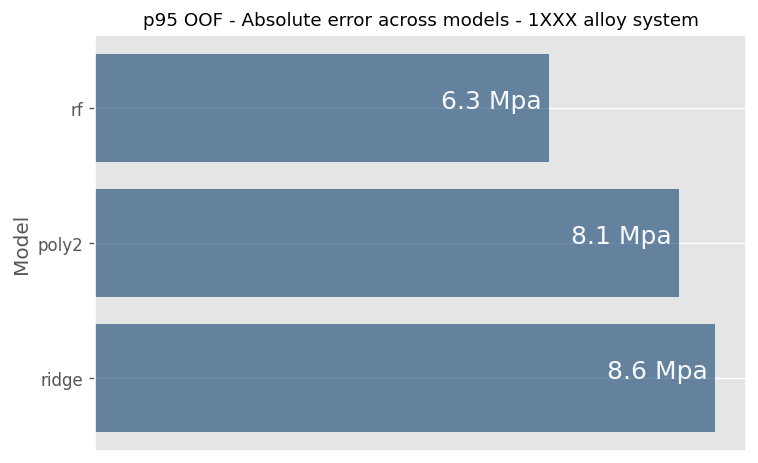
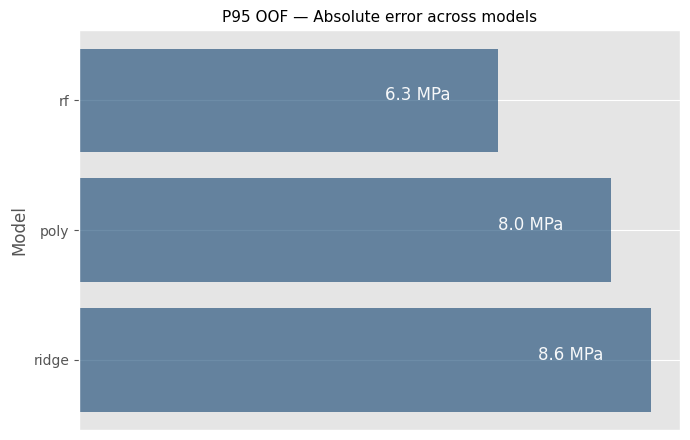
feat: adding base notebook aligning readme

diff --git a/README.md b/README.md
@@ -101,8 +101,8 @@ Any observed differences can be attributed to **metallurgical behavior**, not an
 
 | Model | MAE (MPa) | RMSE (MPa) | R² |
 |------|-----------|------------|----|
-| Random Forest | 2.2 | 3.3 | 0.9 |
-| Polynomial (deg 2) | 2.9 | 4.1 | 0.8 |
+| Random Forest | 2.0 | 2.8 | 0.9 |
+| Polynomial (deg 2) | 2.9 | 4.0 | 0.8 |
 | Ridge | 3.3 | 4.5 | 0.8 |
 
 Key observations:
@@ -125,9 +125,9 @@ Robustness under tail behavior provides a more reliable basis for conservative d
 
 | Model | P95 absolute error (MPa) |
 |------|--------------------------|
-| Random Forest | 6.5 |
-| Polynomial (deg 2) | 8.2 |
-| Ridge | 8.8 |
+| Random Forest | 6.3 |
+| Polynomial (deg 2) | 8.0 |
+| Ridge | 8.6 |
 
 **Figure 1 — P95 absolute error across models**  
 ![P95 absolute error across models](assets/sc03_p95_absolute_error_1xxx.png)
@@ -151,10 +151,10 @@ This result mirrors SC02 in principle, but **differs in magnitude and structure*
 
 **Table 4 — Permutation importance (absolute mean)**
 
-| Feature | Ridge | Poly2 | RF |
-|-------|-------|-------|----|
-| Fe | 0.704 | 1.609 | 2.451 |
-| Si | 0.206 | 0.070 | 0.324 |
+| Feature | Ridge | Poly2 | RF  |
+|-------|-------|-------|-------|
+| Fe    | 0.704 | 1.609 | 2.479 |
+| Si    | 0.206 | 0.070 | 0.336 |
 
 Key observations:
 - Fe consistently emerges as the dominant driver
